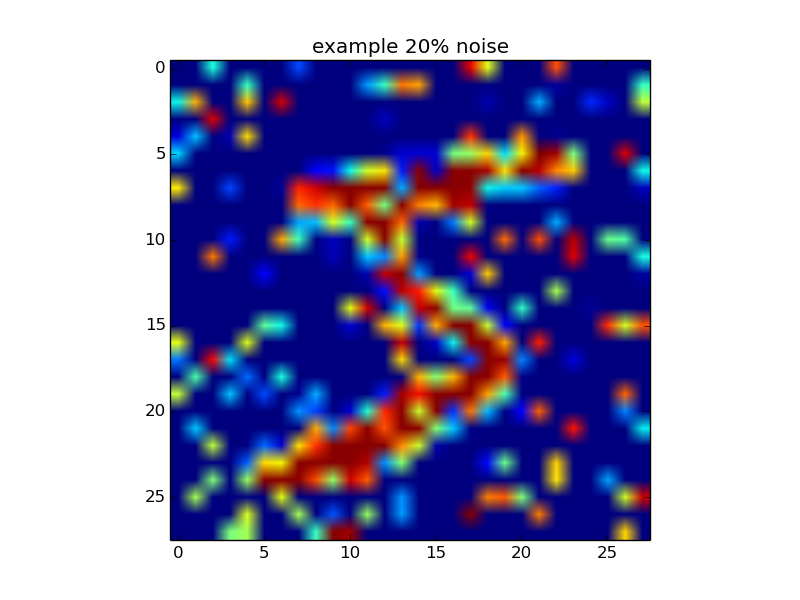
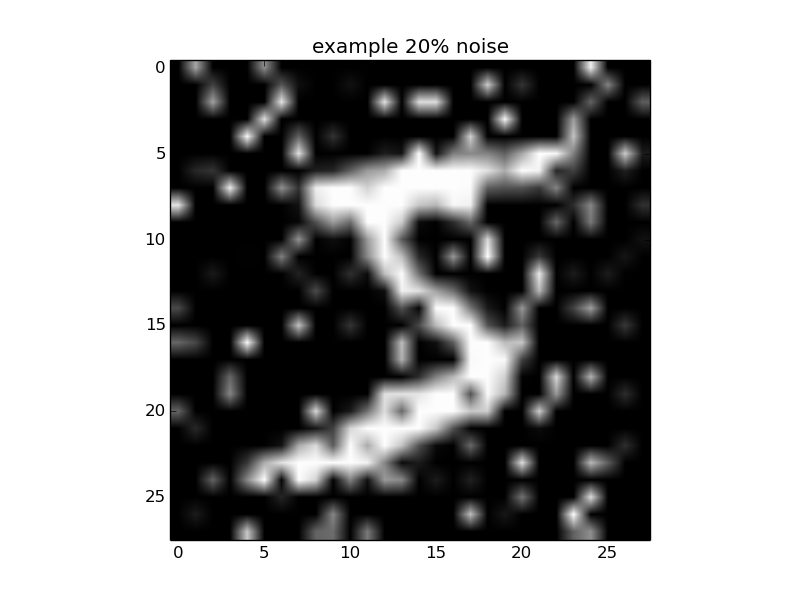
fix: convert gray scale

diff --git a/mnist_download.py b/mnist_download.py
@@ -64,7 +64,7 @@ def showExample(data_name, dataset):
   print('label ' + label)
   example = dataset['train_img'][0].reshape(28, 28)
   plt.title(data_name)
-  plt.imshow(example)
+  plt.imshow(example, cmap='gray')
   if not os.path.exists('picture'):
     os.makedirs('picture')
   plt.savefig(file_name)
